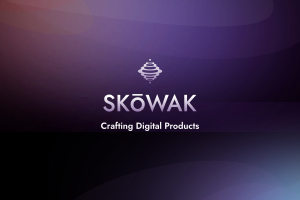
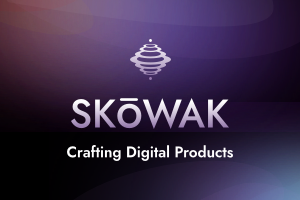
Trying better quality thumbnail

Changed region(s): [[0.24, 0.45, 0.78, 0.66], [0.21, 0.72, 0.78, 0.81], [0.42, 0.18, 0.57, 0.42]]

diff --git a/index.html b/index.html
@@ -21,7 +21,7 @@
   <meta property="og:title" content="Skowak | We Craft Digital Product Ecosystems" />
   <meta property="og:url" content="https://skowak.com/" />
   <meta property="og:description" content="Skowak merges product design, development and strategy into a unified and pragmatic approach that embraces a modern Renaissance mindset." />
-  <meta property="og:image" content="/images/skowak-thumbnail.png" />
+  <meta property="og:image" content="/images/skowak-thumbnail@2x.png" />
 
   <meta name="google-site-verification" content="FYu0isG5ni8aFwFpWQvQQIhOKoWqpSL_Q5I6RPVhKzU" />
 
